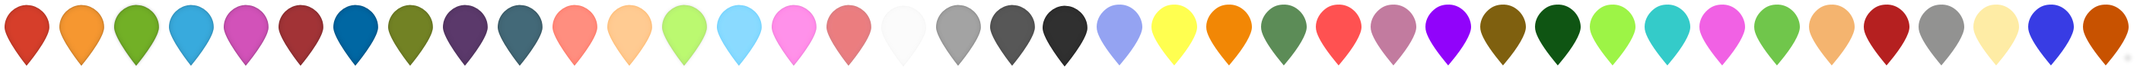
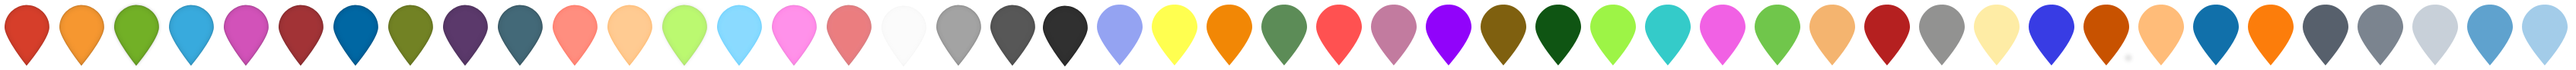
colorblind1 palette

diff --git a/src/scss/partials/_awesome-markers-with-more-colours.scss b/src/scss/partials/_awesome-markers-with-more-colours.scss
@@ -27,7 +27,7 @@ Version: 1.0
   (-webkit-min-device-pixel-ratio: 1.5),(min-device-pixel-ratio: 1.5),(min-resolution: 1.5dppx) {
    .awesome-marker {
     background-image: url('../images/markers-soft@2x.png');
-    background-size: 1368px 46px;
+    background-size: 1692px 46px;
    }
    .awesome-marker-shadow {
     background-image: url('../images/markers-shadow@2x.png');
@@ -207,6 +207,41 @@ Version: 1.0
     background-position: -1330px 0;
   }
 
+  .awesome-marker-icon-colorblind1_red {
+    background-position: -1366px 0;
+  }
+  
+  .awesome-marker-icon-colorblind1_lightorange {
+    background-position: -1402px 0;
+  }
+  
+  .awesome-marker-icon-colorblind1_darkblue {
+    background-position: -1438px 0;
+  }
+  
+  .awesome-marker-icon-colorblind1_orange {
+    background-position: -1474px 0;
+  }
+  
+  .awesome-marker-icon-colorblind1_darkgrey {
+    background-position: -1510px 0;
+  }
+  
+  .awesome-marker-icon-colorblind1_mediumgrey {
+    background-position: -1546px 0;
+  }
+  
+  .awesome-marker-icon-colorblind1_lightgrey {
+    background-position: -1582px 0;
+  }
+
+  .awesome-marker-icon-colorblind1_mediumblue {
+    background-position: -1618px 0;
+  }
+  
+  .awesome-marker-icon-colorblind1_lightblue {
+    background-position: -1654px 0;
+  }
   .awesome-marker-square {
     background-position-y: -46px;
   }

diff --git a/src/js/map/consts.js b/src/js/map/consts.js
@@ -70,6 +70,15 @@ const MARKER_COLORS = {
   gray: "#575757",
   black: "#3b3b3b",
   newyellow:"#d4ff2a",
+  colorblind1_red: "#c85200",
+  colorblind1_lightorange: "#ffbc79",
+  colorblind1_darkblue: "#1170aa",
+  colorblind1_orange: "#fc7d0b",
+  colorblind1_darkgrey: "#57606c",
+  colorblind1_mediumgrey: "#7b848f",
+  colorblind1_lightgrey: "#c8d0d9",
+  colorblind1_mediumblue: "#5fa2ce",
+  colorblind1_lightblue: "#a3cce9",
   //the colours below don't have a marker
   khaki: "#ffda6f",
   yellow: "#ffff00",
